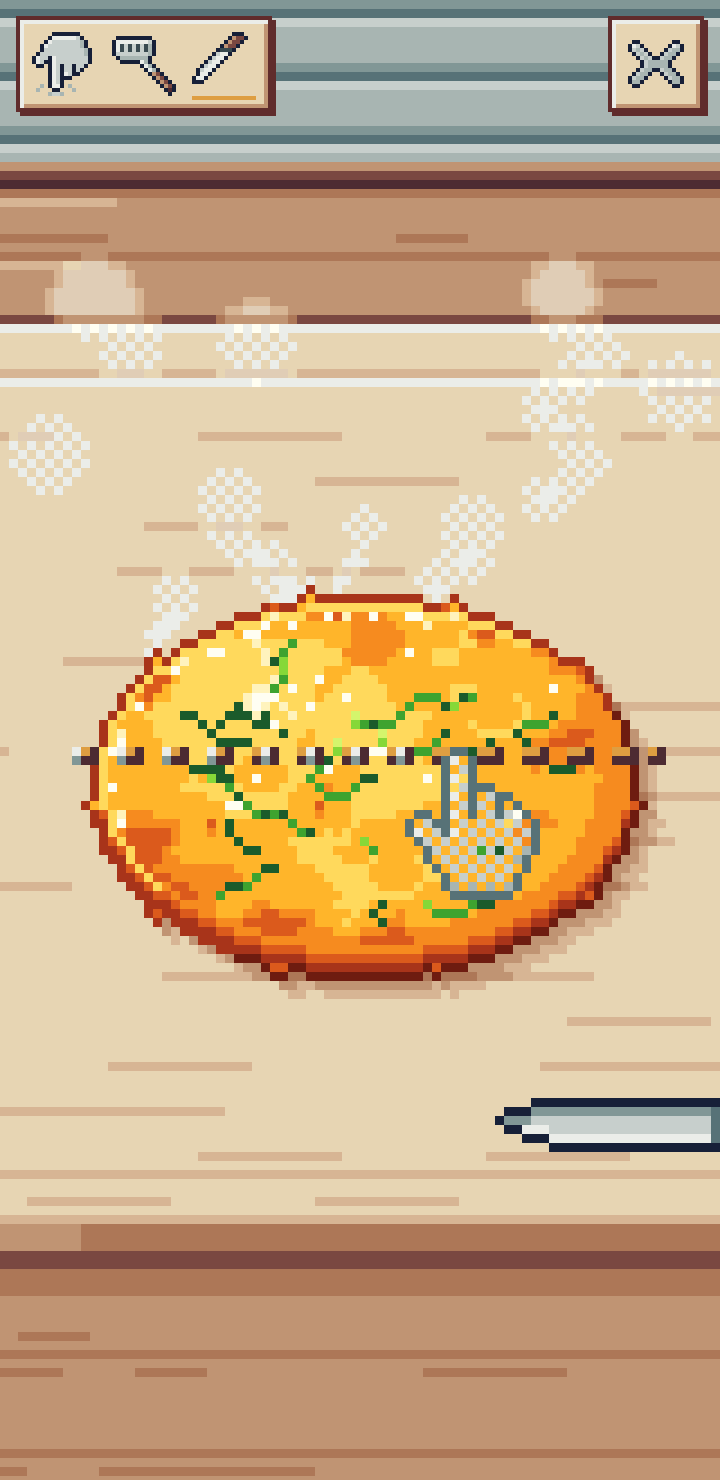
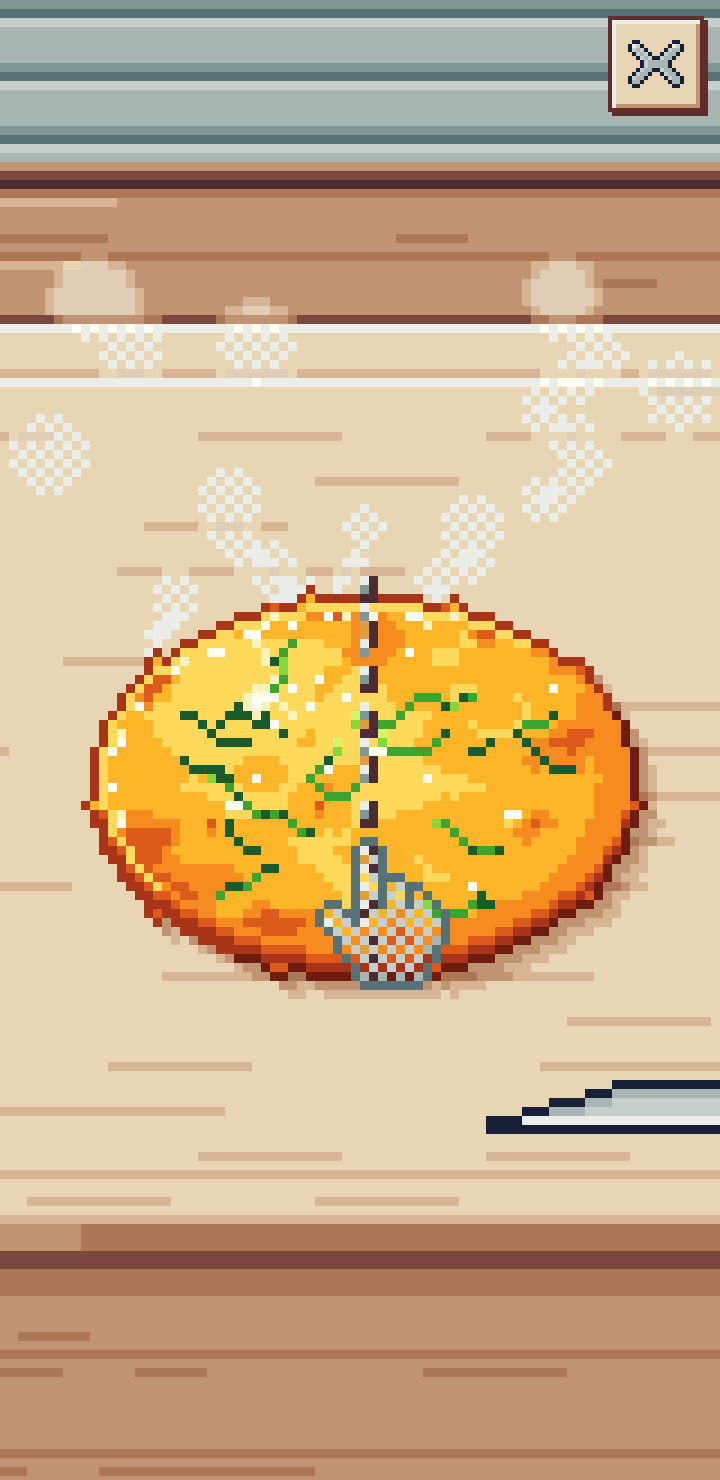
7차 K: 캡처 도구에 북 · 단계 · 접시 묶음, 캡처 새로 (음식 그림은 A 갈래 것으로 찍음)
Claude-Session: https://claude.ai/code/session_01Tq2y4QZUpNpnV5cRfjKJa2

diff --git a/tools/cook-shots.js b/tools/cook-shots.js
@@ -2,7 +2,7 @@
 /* tools/cook-shots.js - the kitchen's documentation captures (wip/round5/cook-spec.md 16.2) into docs/shots/cook/.
  *   NODE_PATH=$(npm root -g) node tools/cook-shots.js
  *   COOK_SHOTS_DIR=/some/dir   write the PNGs there instead of docs/shots/cook/
- *   ONLY=360x740,embed         only these sets (360x740, 320x568, 412x915, embed)
+ *   ONLY=360x740,embed         only these sets (360x740, 320x568, 412x915, book, embed)
  * What it writes (23 PNGs, sound off, light colour scheme, ?seed=12, one dish played the same way on every size):
  *   360x740 @2 and 320x568 @2 (suffix -360x740 / -320x568):
  *     01-tap-start       700 ms after open, fresh save (nothing seen yet): the first-time demo hand on the first ring
@@ -17,6 +17,9 @@
  *     09-result          the plate 1.04 s after the reveal (t 12 >= 6), the again chip shown
  *     10-result-reduced  the same dish with prefers-reduced-motion: reduce (emulated): the plate at rest, the again chip
  *   412x915 @2.625 (suffix -412x915): 01-tap-start and 09-result
+ *   11-21 round 7 (set 'book', 360x740 @2, real time, the book dishes of js/cook-steps.js; pictures need js/cook-sprites.js):
+ *     20-book, 21-book-locked, 22..30 one step of every kind (slice stir pour flip tap swipe drag rub bake), 31..35 the five plates
+ *     with their end buttons. These are not byte-stable (no fake clock); 09 / 10 now show the end buttons, not an again chip.
  *   11-embed-360x740     index.html (stub world and brain, the first-run name dialog filled), the play room, the kitchen
  *                        opened by a touch on the counter (cook.html?embed=1 in #cook-overlay), the tap step after 3 hits
  * Two saves: 01-03 come from a fresh save (nothing seen); 04-10 from a save that has seen 'tap' and 'flip' but not
@@ -336,7 +339,7 @@ async function setB(browser, set) {   /* seen tap + flip: 04-06 on the stove, 07
     await T.at(rev.revealAt + AT.result, '09');
     var l = await T.live();
     await shoot(T, NAMES['09'] + sfx, [[l.screen === 'reveal' && l.station === 'plate' && !l.slide && l.done, 'the plate, at rest after the slide (' + js([l.screen, l.station, l.slide]) + ')'],
-      [l.chip && l.verb === '다시', 'the again chip shown (' + js([l.chip, l.verb]) + ')'], [!l.hint, 'no hand'], [Math.floor(AT.result / FMS) >= 6, 't >= 6']]);
+      [l.chip && l.end.table && l.verb === '', 'the end buttons shown (' + js([l.chip, l.end]) + ')'], [!l.hint, 'no hand'], [Math.floor(AT.result / FMS) >= 6, 't >= 6']]);
   } finally { await T.done(); }
 }
 
@@ -349,7 +352,7 @@ async function setC(browser, set) {   /* reduced motion (emulated): the same dis
     await T.at(rev.revealAt + AT.result, '10');
     var l = await T.live();
     await shoot(T, NAMES['10'] + sfx, [[l.reduced, 'reduced motion on'], [l.screen === 'reveal' && l.station === 'plate' && !l.slide, 'the plate (' + js([l.screen, l.station]) + ')'],
-      [l.chip && l.verb === '다시', 'the again chip shown (' + js([l.chip, l.verb]) + ')'], [l.stats.slides === 0 && l.stats.squash === 0 && l.stats.shake === 0, 'no slide, squash or shake (' + js(l.stats) + ')']]);
+      [l.chip && l.end.table && l.verb === '', 'the end buttons shown (' + js([l.chip, l.end]) + ')'], [l.stats.slides === 0 && l.stats.squash === 0 && l.stats.shake === 0, 'no slide, squash or shake (' + js(l.stats) + ')']]);
   } finally { await T.done(); }
 }
 
@@ -436,6 +439,79 @@ async function setEmbed(browser) {
   } finally { await ctx.close(); }
 }
 
+/* ---------- 11-21 round 7: the recipe book, one step of every kind, the five plates (real time, mouse pointer) ---------- */
+async function setBook(browser) {
+  var ctx = await browser.newContext({ viewport: { width: 360, height: 740 }, deviceScaleFactor: 2, hasTouch: true, colorScheme: 'light', locale: 'ko-KR' });
+  var page = await ctx.newPage(), errs = [];
+  page.on('pageerror', function (e) { errs.push(e.message); }); page.on('console', function (m) { if (m.type() === 'error') errs.push(m.text()); });
+  await page.addInitScript(function () { try { if (!sessionStorage.getItem('__s7')) { sessionStorage.setItem('__s7', '1'); localStorage.removeItem('ppolppol_cook_v0'); } } catch (e) { /* none */ } });
+  await page.goto(COOK_URL + '?seed=' + SEED);
+  function live() { return page.evaluate(function () { return COOK.live(); }); }
+  async function snap(name, ok, why) {
+    var l = await live(), text = await page.evaluate(function () { var d = document.getElementById('cook-dlg'), c = d.cloneNode(true), q = c.querySelector('.ck-say'); if (q) q.remove(); return (c.textContent || '').replace(/\s+/g, ''); });
+    if (!ok(l) || text !== '' || l.err || errs.length) { failed.push(name + ': ' + (why || 'state') + ' ' + js([l.screen, l.recipe, l.si, l.kind, text, errs])); console.error('  FAIL ' + name); return; }
+    await page.evaluate(function () { return Promise.all([].map.call(document.querySelectorAll('.cook-sticker'), function (i) { return i.decode ? i.decode().catch(function () {}) : null; })); });
+    await realWait(120);
+    await page.screenshot({ path: path.join(OUT, name + '.png'), animations: 'disabled' });
+    made.push(name); console.log('  ok   ' + name + '  (' + [l.screen, l.recipe || '-', l.kind || '-', l.station].join(', ') + ')');
+  }
+  async function pt(lx, ly) { var v = (await live()).view; return [(lx / 2 + v.ox) * v.css, (ly / 2 + v.oy) * v.css]; }
+  async function open(o) {   /* close (the kitchen saves its pot), drop that pot (a half-made one would win over the dish asked for), open */
+    await page.evaluate(function () { COOK.close(); }); await realWait(120);
+    await page.evaluate(function (x) {
+      try { var sv = JSON.parse(localStorage.getItem('ppolppol_cook_v0') || 'null'); if (sv) { sv.pot = null; localStorage.setItem('ppolppol_cook_v0', JSON.stringify(sv)); } } catch (e) { /* none */ }
+      var q = { storeKey: 'ppolppol_cook_v0', seed: 12 }; for (var k in x) q[k] = x[k]; COOK.open(q);
+    }, o || {});
+    await realWait(200);
+  }
+  async function toStep(id, si) {   /* by the chip, up to the start of step si */
+    await open({ recipe: id });
+    for (var g = 0; g < 80; g++) {
+      var l = await live();
+      if (l.si === si && l.phase === 'step' && !l.slide) break;
+      if (l.phase === 'step' && l.si < si) await page.evaluate(function () { document.querySelector('.ck-verb').click(); });
+      await realWait(330);
+    }
+    await realWait(700);
+  }
+  await realWait(900);
+  await snap('20-book', function (l) { return l.screen === 'book' && l.book.id === 'jeon2' && l.book.open === 3; });
+  await open({ host: true }); await page.evaluate(function () { document.querySelectorAll('.ck-bk-tab')[4].click(); }); await realWait(500);
+  await snap('21-book-locked', function (l) { return l.screen === 'book' && l.book.id === 'cake' && l.book.locked.indexOf('cake') >= 0; });
+  var p, st;
+  await toStep('jeon2', 0); await page.evaluate(function () { document.querySelector('.ck-verb').click(); }); await realWait(400);
+  await snap('22-slice-jeon2', function (l) { return l.kind === 'slice' && l.st.cur === 1; });
+  await toStep('jeon2', 1); st = (await live()).st; p = await pt(st.cx + 40, st.cy); await page.mouse.move(p[0], p[1]); await page.mouse.down();
+  for (var a = 0; a <= 400; a += 20) { p = await pt(st.cx + 40 * Math.cos(a * Math.PI / 180), st.cy + 24 * Math.sin(a * Math.PI / 180)); await page.mouse.move(p[0], p[1]); }
+  await snap('23-stir-jeon2', function (l) { return l.kind === 'stir' && l.progress > 0.2 && !!l.st.hand; }); await page.mouse.up();
+  await toStep('jeon2', 2); p = await pt(144, 200); await page.mouse.move(p[0], p[1]); await page.mouse.down(); await realWait(1300);
+  await snap('24-pour-jeon2', function (l) { return l.kind === 'pour' && !!l.st.hold && l.st.fill >= 1; }); await page.mouse.up();
+  await toStep('jeon2', 3); await page.evaluate(function () { document.querySelector('.ck-verb').click(); }); await realWait(3400);
+  await snap('25-flip-jeon2', function (l) { return l.kind === 'flip' && l.band === 1 && l.bell && l.bell.shown; });
+  await toStep('gyeran', 0); st = (await live()).st; for (var e = 0; e < 3; e++) { p = await pt(st.marks[e > 1 ? 1 : 0].x, st.marks[e > 1 ? 1 : 0].y); await page.mouse.click(p[0], p[1]); await realWait(160); }
+  await realWait(300);
+  await snap('26-tap-gyeran', function (l) { return l.kind === 'tap' && l.st.hits === 3; });
+  await toStep('gyeran', 3); await page.evaluate(function () { document.querySelector('.ck-verb').click(); }); await realWait(500);
+  await snap('27-swipe-gyeran', function (l) { return l.kind === 'swipe' && l.st.n === 1; });
+  await toStep('jumeokbap2', 0); st = (await live()).st; await page.evaluate(function () { document.querySelector('.ck-verb').click(); }); await realWait(350);
+  p = await pt(st.items[1].hx, st.items[1].hy); await page.mouse.move(p[0], p[1]); await page.mouse.down(); p = await pt(st.items[1].hx + 30, st.items[1].hy + 44); await page.mouse.move(p[0], p[1]); await realWait(200);
+  await snap('28-drag-jumeokbap2', function (l) { return l.kind === 'drag' && l.st.n === 1 && !!l.st.pen; }); await page.mouse.up();
+  await toStep('kkochi2', 0); st = (await live()).st; p = await pt(st.box[0] * 2 + 10, st.box[1] * 2 + 30); await page.mouse.move(p[0], p[1]); await page.mouse.down();
+  for (var u = 0; u <= 10; u++) { p = await pt((st.box[0] + st.box[2] * u / 10) * 2, st.box[1] * 2 + 30); await page.mouse.move(p[0], p[1]); }
+  await realWait(150);
+  await snap('29-rub-kkochi2', function (l) { return l.kind === 'rub' && l.st.n > 8 && !!l.st.hand; }); await page.mouse.up();
+  await toStep('cake', 3); await page.evaluate(function () { document.querySelector('.ck-verb').click(); }); await realWait(3400);
+  await snap('30-bake-cake', function (l) { return l.kind === 'bake' && l.band === 1; });
+  var ids = ['jeon2', 'gyeran', 'jumeokbap2', 'kkochi2', 'cake'];
+  for (var i = 0; i < ids.length; i++) {
+    await open({ recipe: ids[i] }); await page.evaluate(function () { COOK.auto(true); });
+    await page.waitForFunction(function () { var l = COOK.live(); return l.screen === 'reveal' && l.chip && !l.slide; }, null, { timeout: 40000 });
+    await realWait(900);
+    await snap((31 + i) + '-plate-' + ids[i], function (l) { return l.screen === 'reveal' && l.end.call && l.end.table; });
+  }
+  await ctx.close();
+}
+
 (async function main() {
   fs.mkdirSync(OUT, { recursive: true });
   fs.writeFileSync(PROBE, '<!doctype html><meta charset="utf-8"><title>clock</title>');
@@ -456,6 +532,7 @@ async function setEmbed(browser) {
         }
       }
     }
+    if (want('book')) { console.log('== book 360x740 @2 (round 7)'); try { await setBook(browser); } catch (eb) { failed.push('book set: ' + (eb && eb.message)); console.error('  FAIL book set threw: ' + (eb && eb.stack || eb)); } }
     if (want('embed')) { console.log('== embed 360x740 @2'); await setEmbed(browser); }
   } finally { await browser.close(); }
   console.log('\n' + made.length + ' captures written to ' + path.relative(ROOT, OUT) + ', ' + failed.length + ' could not be made (' + Math.round((Date.now() - t0) / 1000) + ' s)');

diff --git a/js/cook.js b/js/cook.js
@@ -2147,7 +2147,7 @@ var COOK = (function () {
       end: { call: !D.call.hidden, table: !D.table.hidden, at: L.screen === 'reveal' ? L.againAt : null }, canCall: L.canCall, served: L.served,
       screen: L.screen, recipe: run ? run.recipe : null, si: run ? run.si : null, kind: st && run.phase !== 'reveal' ? st.kind : null,
       phase: run ? run.phase : null, progress: st ? st.progress : 0, done: run ? !!run.done : false, tag: st ? st.tag : null,
-      band: st && st.kind === 'flip' ? st.band : null, quiet: !(L.shown || document.activeElement === D.verb), fx: L.fx,
+      band: st && (st.kind === 'flip' || st.kind === 'bake') ? st.band : null, quiet: !(L.shown || document.activeElement === D.verb), fx: L.fx,
       verb: D.verb.hidden ? '' : D.verb.getAttribute('aria-label') || '', hint: L.hint ? L.hint.why : null, title: false, note: !D.note.hidden,
       station: stationNow(), slide: sp && sl ? { from: sl.from, to: sl.to, f: sp.f, s: sp.s, carry: sl.carry } : null,
       view: { k: L.k, css: L.css, W: L.W, H: L.H, ox: L.ox, oy: L.oy, hudB: L.hudB, chipTop: L.chipTop, safe: L.safe.slice() },
